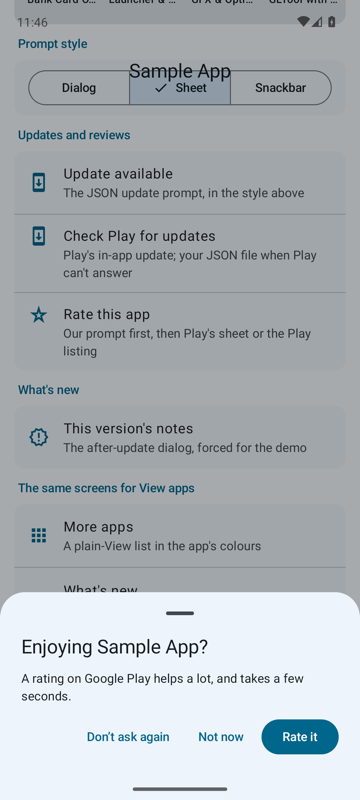
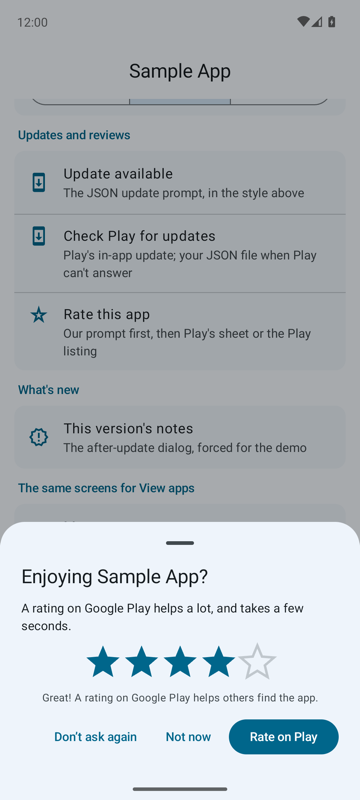
Shorter Play button in the review sheet; star prompt screenshots

diff --git a/README.md b/README.md
@@ -242,7 +242,7 @@ lifecycleScope.launch {
 
 ## 5. In-app review
 
-<img src="docs/screenshots/review-prompt.png" width="200" align="right" alt="The Enjoying the app? prompt">
+<img src="docs/screenshots/review-stars-low.png" width="200" align="right" alt="The Enjoying the app? prompt: two stars picked, Send feedback offered">
 
 Play's rating sheet is the goal, but it has two catches: Play shows it only a few times per user and never says whether it did, and it needs the app to come from Play. So the flow asks **you** first, with five stars that pop in; happy users go on to Play, unhappy ones get to tell you by mail instead of telling the whole store:
 
